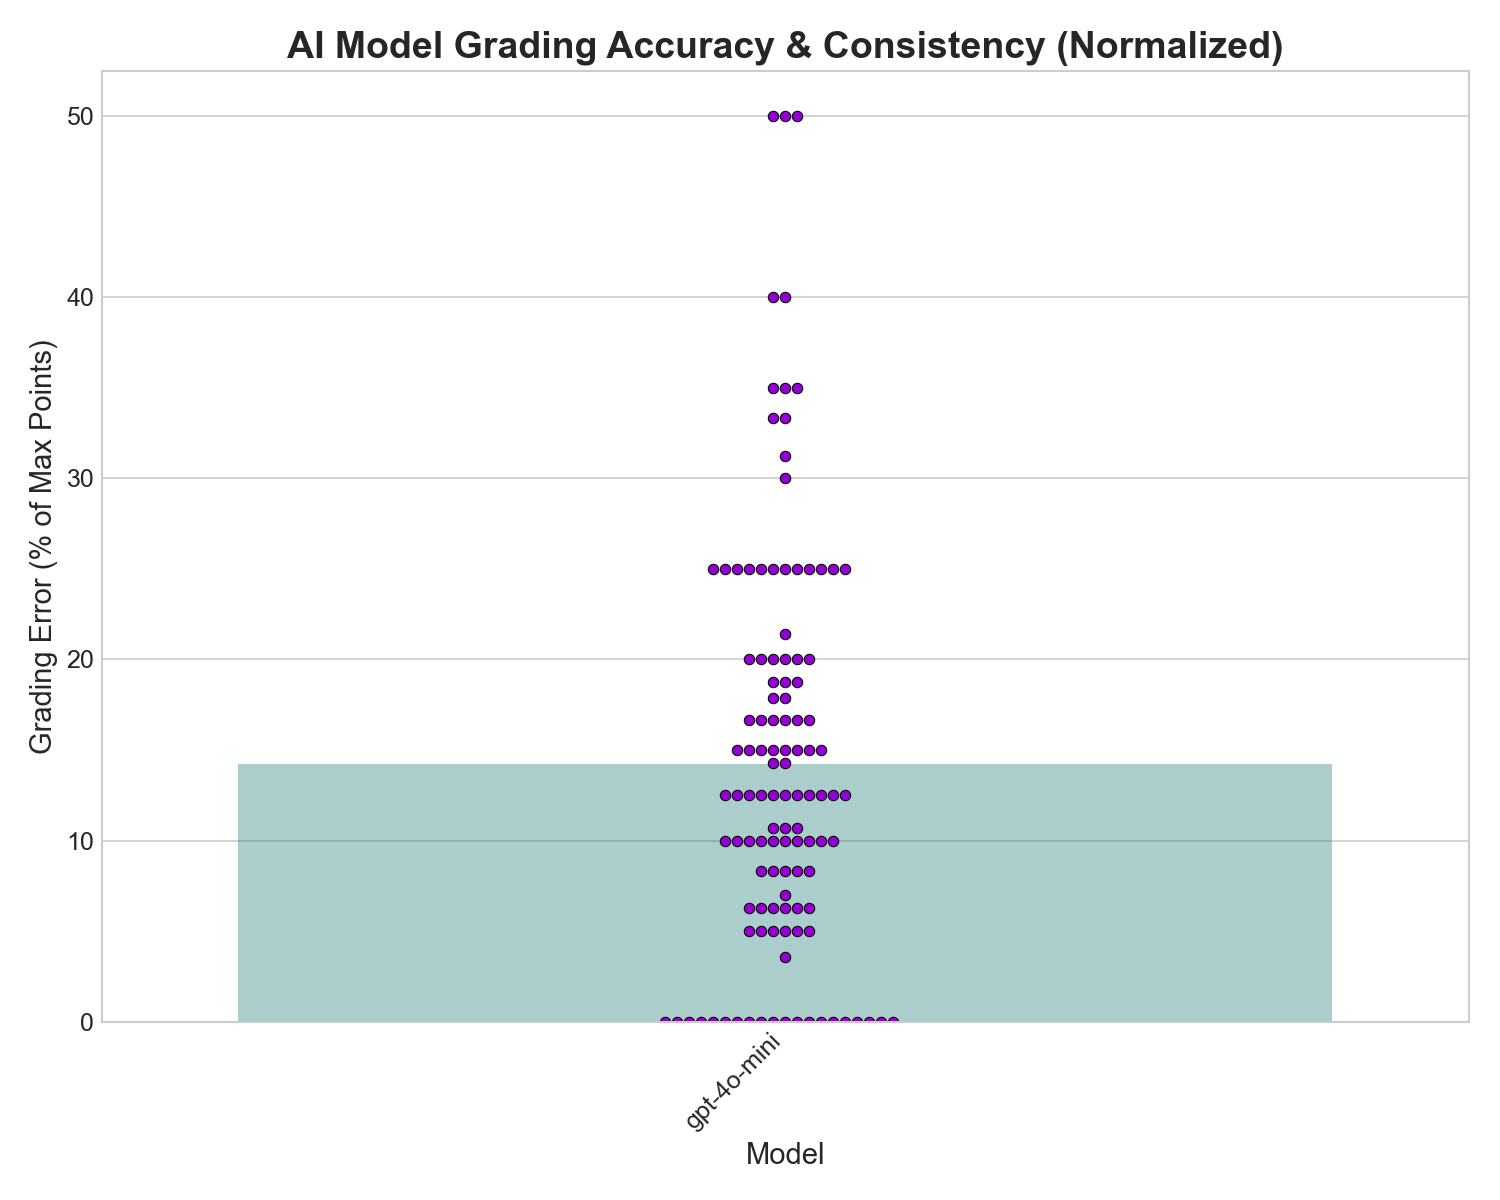
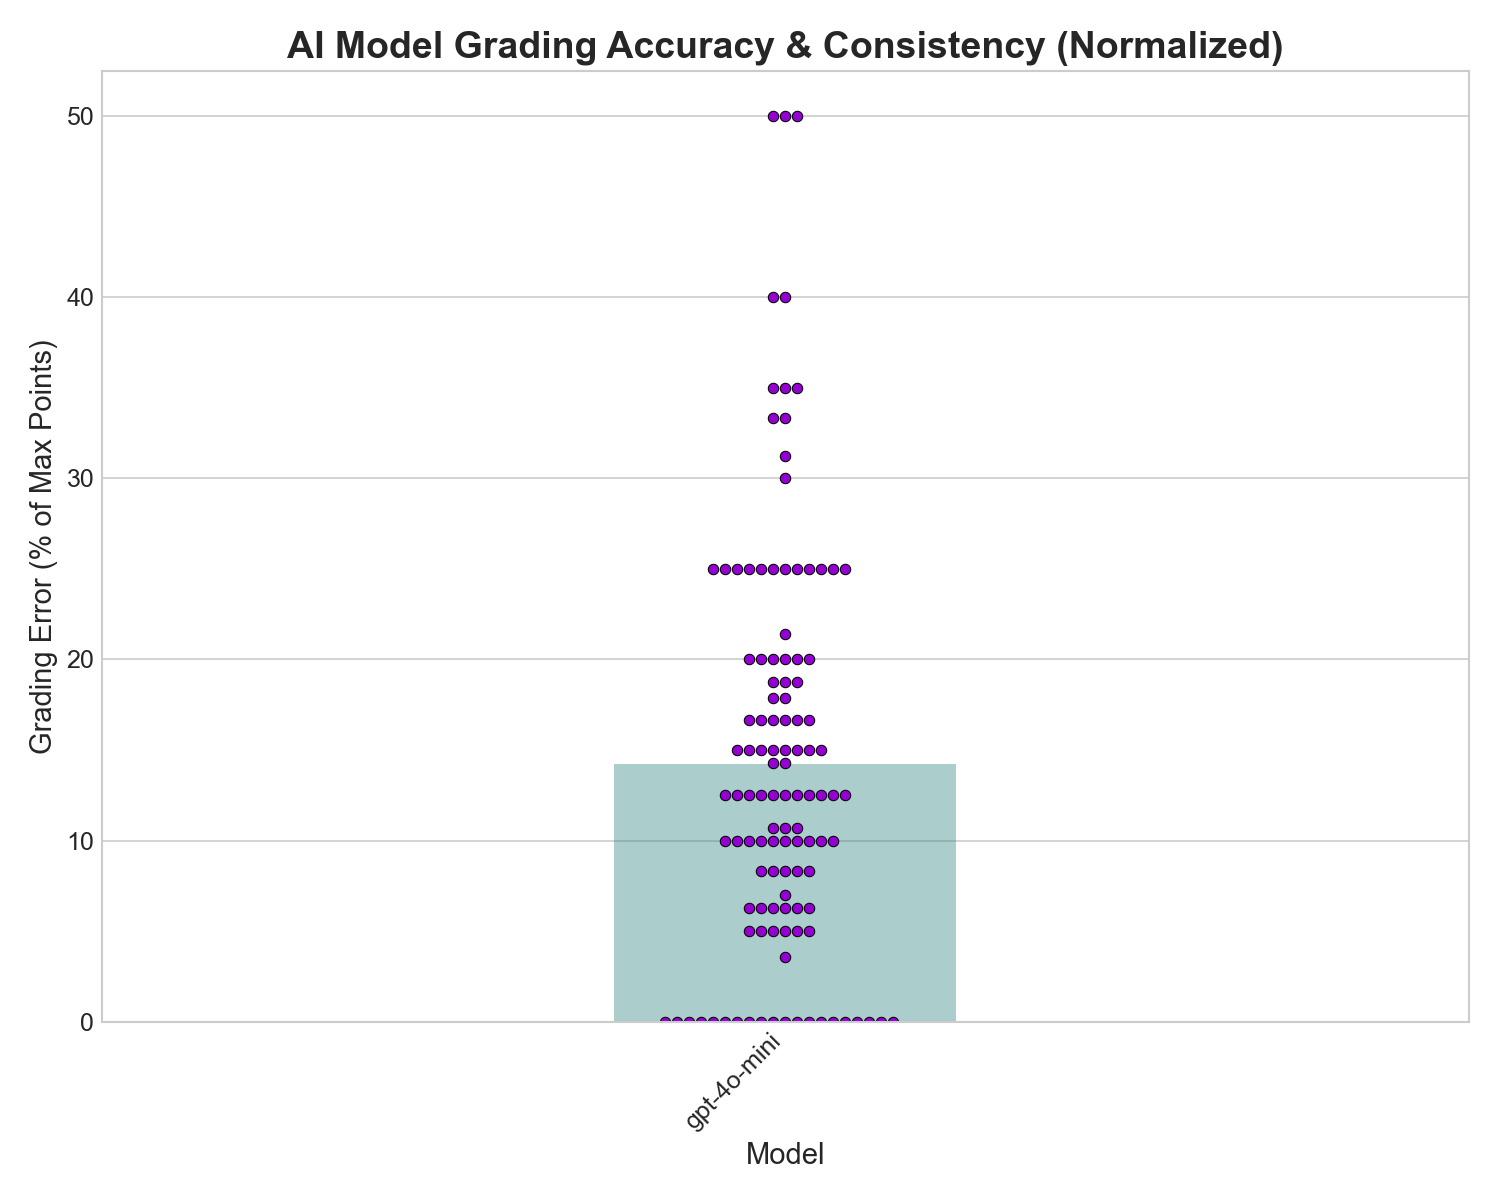
bar update

Changed region(s): [[0.1533, 0.6167, 0.4293, 0.8633], [0.6133, 0.6167, 0.8893, 0.8633]]

diff --git a/Benchmarking/analyze_results.py b/Benchmarking/analyze_results.py
@@ -89,15 +89,14 @@ def plot_accuracy_chart(stats_df, successful_df):
     plt.style.use('seaborn-v0_8-whitegrid')
     fig, ax = plt.subplots(figsize=(10, 8))
 
+    bar_width = 0.25 if len(stats_df.index) == 1 else 0.8
+
     sns.barplot(
         x=stats_df.index, y='mean_error', data=stats_df,
         palette='viridis_r', ax=ax, alpha=0.4, errorbar=None,
+        width=bar_width,
         zorder=1
     )
-
-    # --- UPDATED --- Set a much narrower max width for single-model case
-    if len(stats_df.index) == 1:
-        ax.set_xlim(-0.25, 0.25)
 
     sns.swarmplot(
         x='model', y='grading_error_percent', data=successful_df,
@@ -133,14 +132,13 @@ def plot_latency_chart(stats_df, raw_df):
     plt.style.use('seaborn-v0_8-whitegrid')
     fig, ax = plt.subplots(figsize=(10, 8))
 
+    bar_width = 0.25 if len(stats_df.index) == 1 else 0.8
+
     sns.barplot(
         x=stats_df.index, y='median_latency', data=stats_df,
-        palette='coolwarm', ax=ax, alpha=0.4, errorbar=None
+        palette='coolwarm', ax=ax, alpha=0.4, errorbar=None,
+        width=bar_width
     )
-
-    # --- UPDATED --- Set a much narrower max width for single-model case
-    if len(stats_df.index) == 1:
-        ax.set_xlim(-0.25, 0.25)
 
     sns.swarmplot(
         x='model', y='latency_seconds', data=latency_data,
@@ -170,13 +168,16 @@ def plot_token_usage_chart(stats_df):
     plt.style.use('seaborn-v0_8-whitegrid')
     fig, ax = plt.subplots(figsize=(10, 8))
 
-    ax.bar(token_data.index, token_data['avg_input_tokens'], color='#3B82F6', label='Input Tokens')
-    ax.bar(token_data.index, token_data['avg_output_tokens'], bottom=token_data['avg_input_tokens'], color='#F97316',
+    # --- UPDATED --- Set bar width and ALSO axis limits for matplotlib
+    bar_width = 0.25 if len(token_data.index) == 1 else 0.8
+
+    ax.bar(token_data.index, token_data['avg_input_tokens'], width=bar_width, color='#3B82F6', label='Input Tokens')
+    ax.bar(token_data.index, token_data['avg_output_tokens'], width=bar_width, bottom=token_data['avg_input_tokens'],
+           color='#F97316',
            label='Output Tokens')
 
-    # --- UPDATED --- Set a much narrower max width for single-model case
     if len(token_data.index) == 1:
-        ax.set_xlim(-0.25, 0.25)
+        ax.set_xlim(-0.5, 0.5)  # Constrain axis to make the narrow bar look good
 
     ax.set_title('Average Token Usage per Model (Efficiency)', fontsize=18, weight='bold')
     ax.set_xlabel('Model', fontsize=14)
